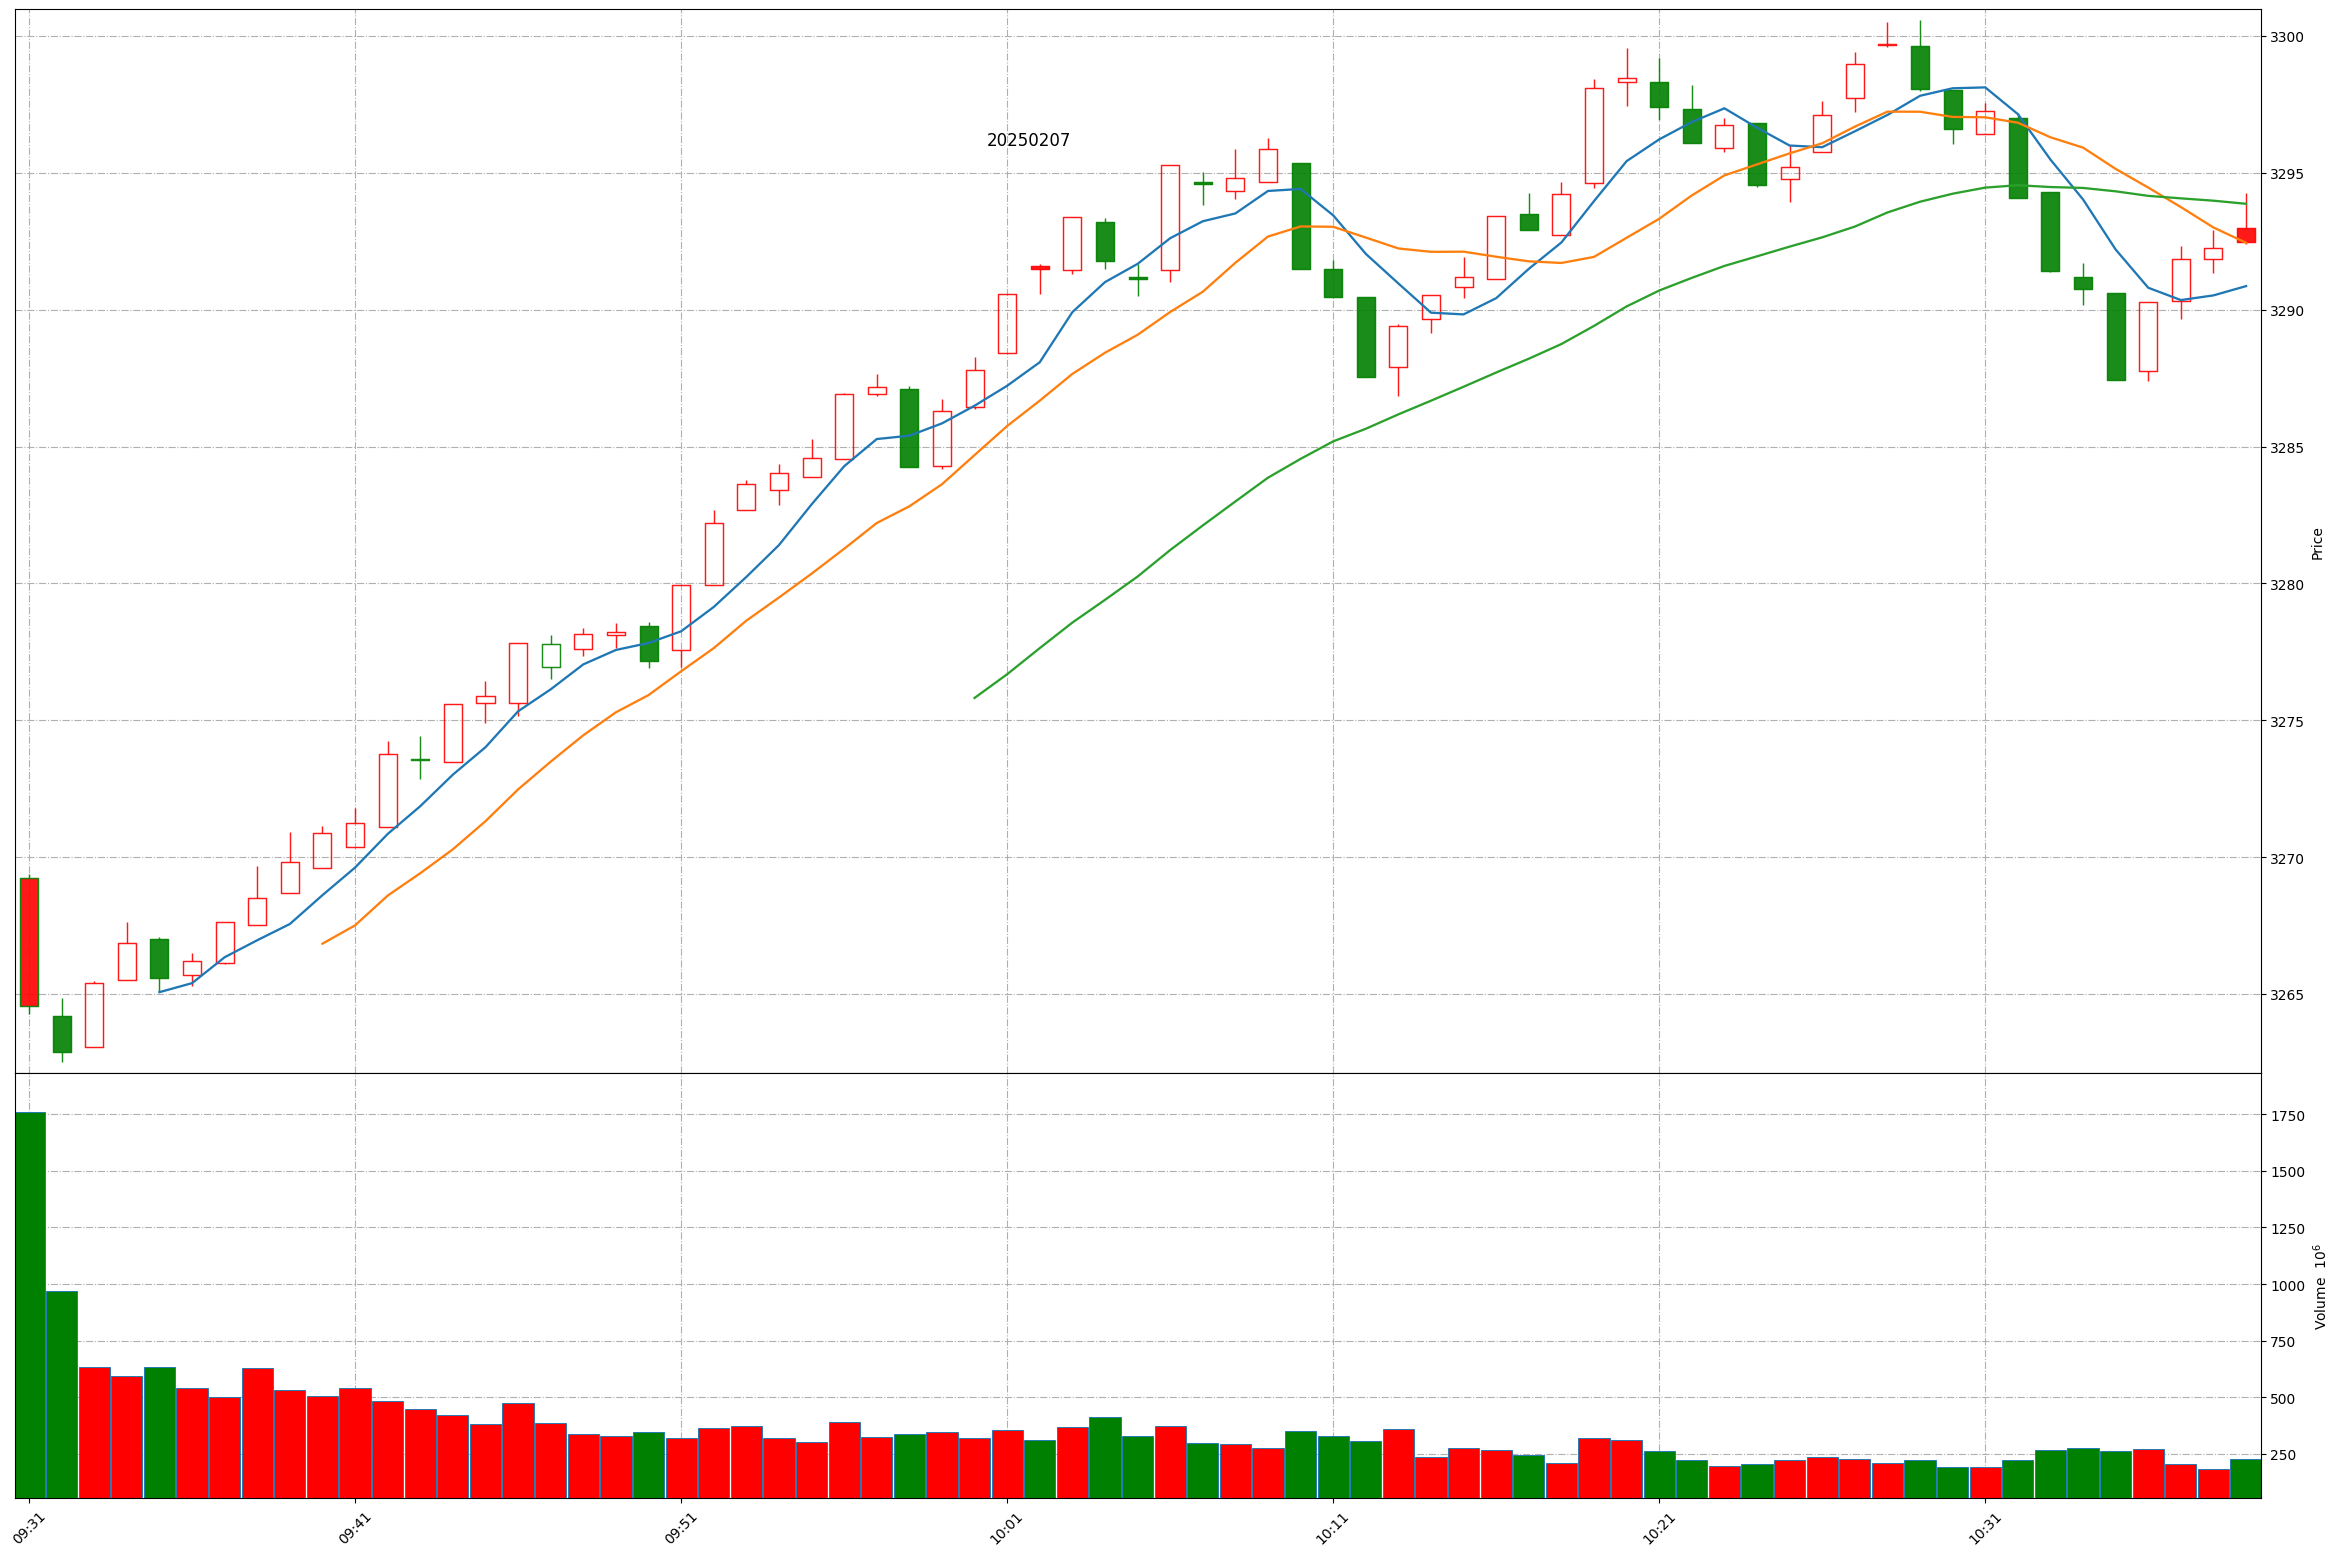
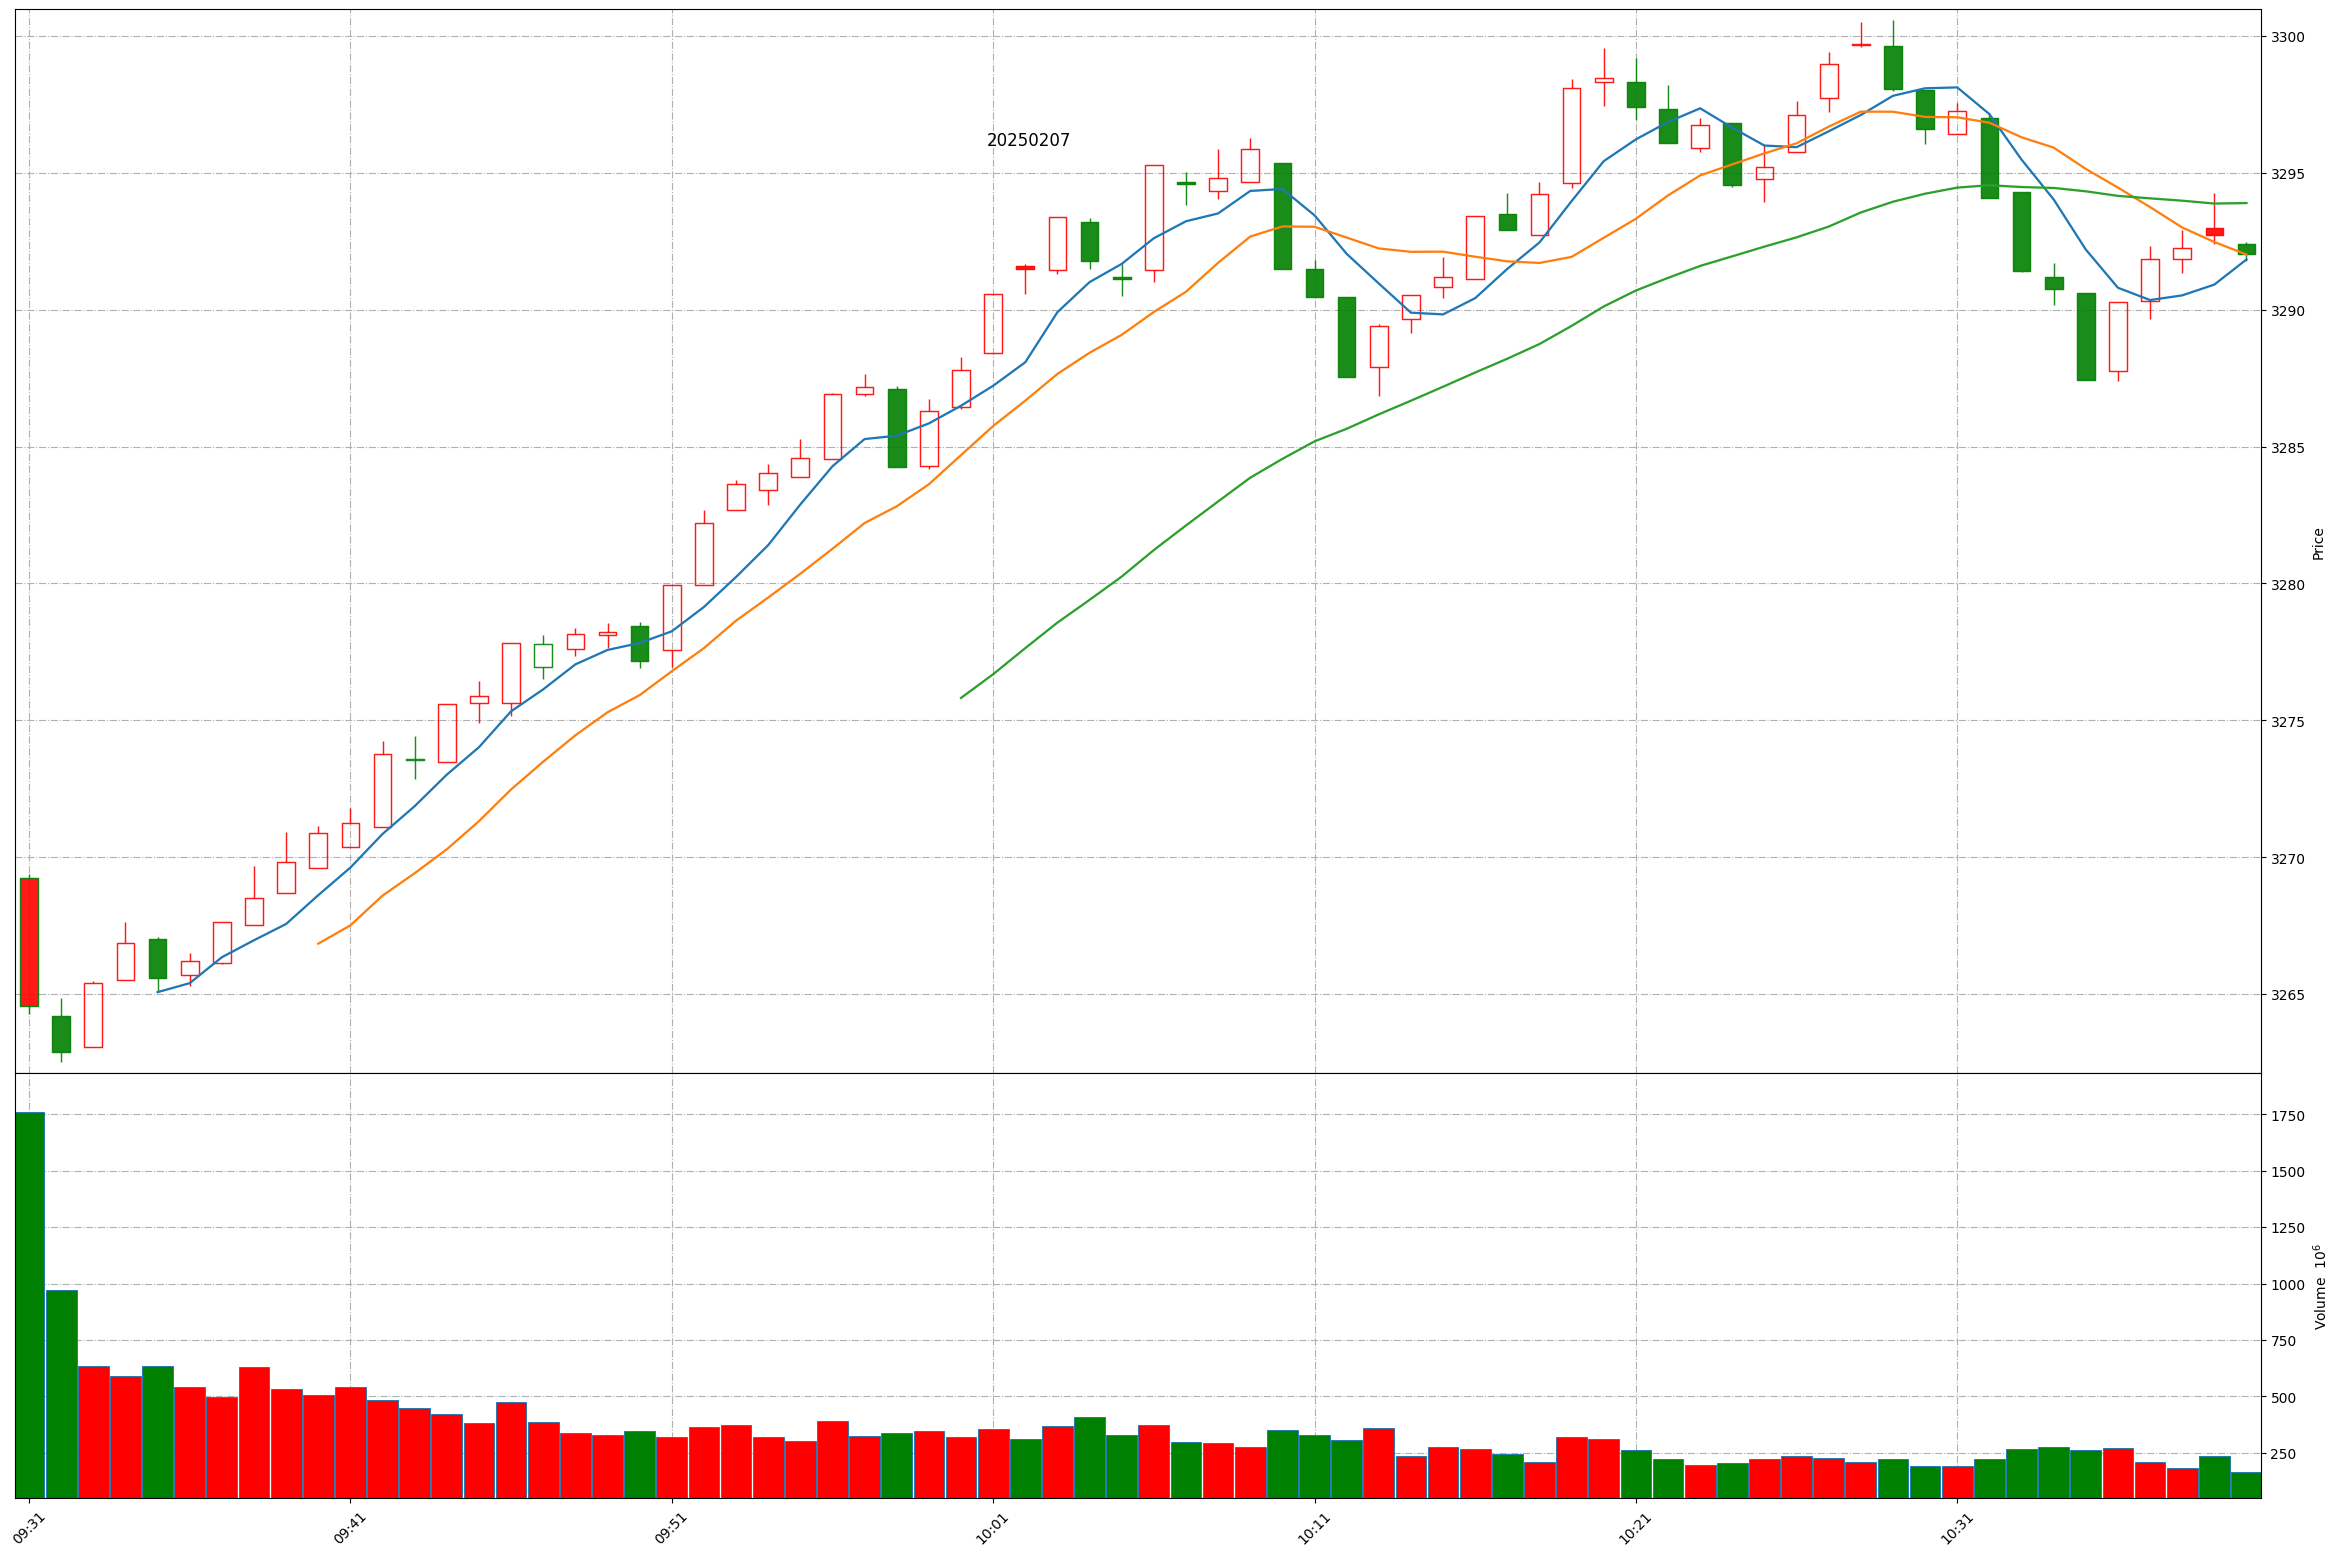
Github action update at 2025-02-07 10:40:11.

diff --git a/README.md b/README.md
@@ -1,11 +1,11 @@
 
 # Daily-A-share-market-quotes 每日 A 股指数（5min 更新）- 20250207
 
-### 上证指数 20250207 10:39
+### 上证指数 20250207 10:40
 ![](./fig/2025/2/20250207-sh000001.png)
 
-### 深证成指 20250207 10:39
+### 深证成指 20250207 10:40
 ![](./fig/2025/2/20250207-sz399001.png)
 
-### 北证50 20250207 10:39
+### 北证50 20250207 10:40
 ![](./fig/2025/2/20250207-bj899050.png)
